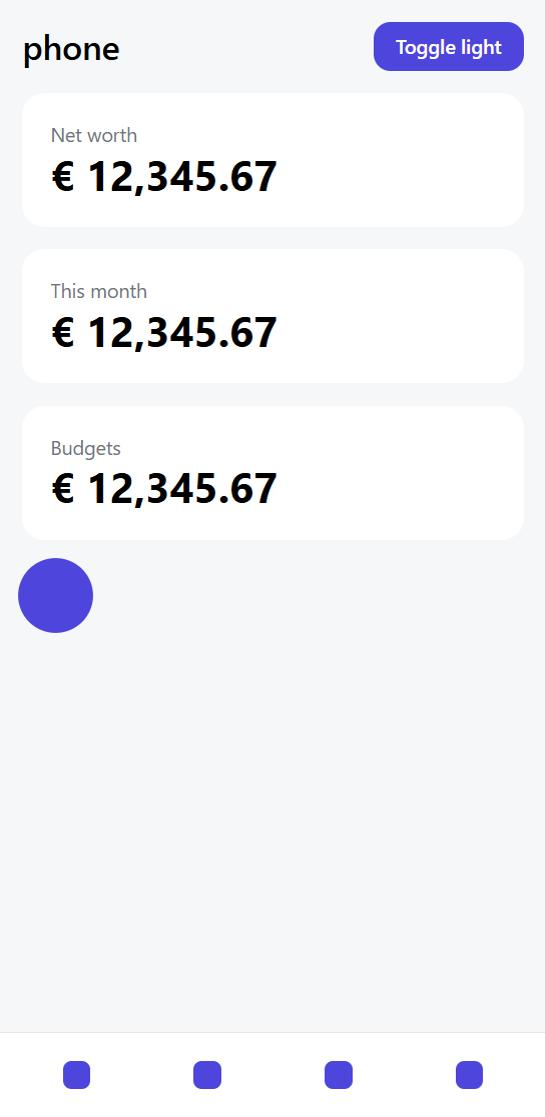
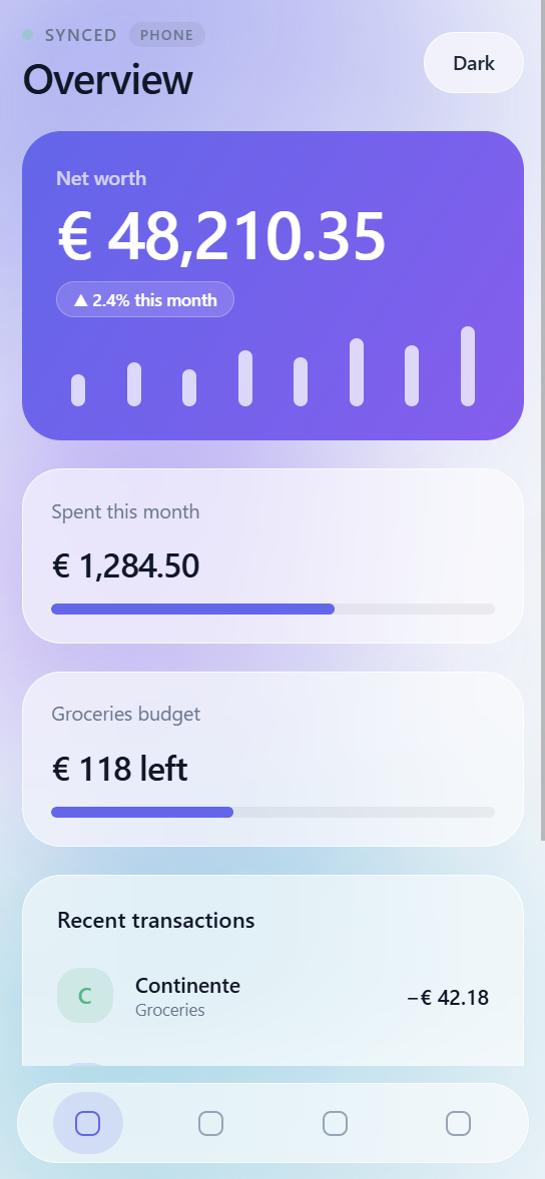
docs(adr): restyle ADR 0004 spike with glass UI and restrained gradients

diff --git a/docs/adr/0004-styling.md b/docs/adr/0004-styling.md
@@ -9,10 +9,15 @@ One design language on Android and web, with a real desktop layout on web (§9.2
 animation and web hover/focus.
 
 ## Spike (what was and was not measured)
-Prototype (throwaway, removed from the repo afterwards): one screen with nav (bottom tabs → rail → labelled sidebar),
-three stat cards (row on desktop), a staggered spring entrance and an infinite pulse, a dark-mode toggle, and hover/focus
-styles. Stack: `nativewind` 4.2.7 + `tailwindcss` 3.4.19 + `react-native-css-interop` 0.2.7, `react-native-reanimated` 4.7.1 +
-`react-native-worklets` 0.13.0, on Expo SDK 58 / expo-router, Chromium 152 (Claude browser pane, Windows).
+Prototype (throwaway, removed from the repo afterwards), restyled once after owner feedback ("more modern, cleaner, gradients and
+glassmorphism, not overused"): a dashboard screen with a floating glass nav (bottom bar → rail → labelled sidebar), a hero
+net-worth card, two stat cards with progress bars, a transactions list, a dark-mode toggle, and hover/focus styles.
+Design rules used: **glass** (translucent fill + 1 px border + backdrop blur) for nav and cards; **gradient only in three places**
+(hero card, logo mark, soft background glows); flat accent colour everywhere else; tabular figures for amounts.
+**Reanimated** drives: staggered spring entrance, animated progress and sparkline bars, press-scale on buttons, slow drift of the
+background glows, and the sync-dot pulse. Stack: `nativewind` 4.2.7 + `tailwindcss` 3.4.19 + `react-native-css-interop` 0.2.7,
+`react-native-reanimated` 4.7.1 + `react-native-worklets` 0.13.0, `expo-linear-gradient` 58.0.3 (Expo-bundled), on Expo SDK 58 /
+expo-router, Chromium 152 (Claude browser pane, Windows).
 
 **Not verified: Android.** No emulator was available, so Android rendering, animation smoothness and dark mode on device are
 untested. That part of the issue's acceptance criteria remains open.
@@ -21,16 +26,21 @@ untested. That part of the issue's acceptance criteria remains open.
 |---|---|
 | Responsive classes switch at 640 / 1024 px | **Yes, exactly.** 639 px → bottom tabs; 640 → rail (64 px); 1023 → rail; 1024 → sidebar (224 px) and 3-column cards |
 | Dark mode toggle | **Works** (`dark` class on `<html>`; all surfaces and text switch) |
-| Reanimated animation | **Works:** staggered spring entrance and looping pulse; pulse advanced on every sampled frame (34 distinct transforms in 61 frames; pane unfocused, so frame rate is throttled and not a true FPS) |
+| Reanimated animation | **Works:** entrance, progress/bar springs, press-scale, background drift, pulse. Visually smooth; no reliable FPS number because the pane is unfocused (frame rate throttled) |
 | Hover / focus on web | **Works:** `hover:` tint on nav rows, `focus:` tint plus browser focus ring via Tab |
 | Moti | **Failed on web** (see findings) |
 
-Production web export impact: entry bundle +27 KB raw / **+7.5 KB gzip**; generated CSS 9.7 KB (2.4 KB gzip);
-the screen chunk including Reanimated/worklets is 716 KB raw / 141 KB gzip.
+Production web export impact: entry bundle +27 KB raw / **+7.5 KB gzip**; generated CSS 14 KB (3.3 KB gzip);
+the screen chunk including Reanimated/worklets/linear-gradient is 726 KB raw / 144 KB gzip.
 
 Screenshots (web, phone 390 / tablet 768 / desktop 1280, light + dark): `assets/0004/`.
 
 ## Findings and caveats
+0. **Glass is a web-only effect for now.** `backdrop-filter` (NativeWind `backdrop-blur-*`, applied via the `web:` variant) gives real glass on web.
+   On Android the same classes are expected to fall back to translucent fills with a border (no blur; not verified on device). Real blur on Android needs `expo-blur`
+   (a native module, still experimental on Android); the background glows are also blurred with a CSS filter on web only (a soft
+   gradient on native). **Adding `expo-blur` is a decision for the owner** (plan rule: ask before native dependencies).
+   Glass looks best in dark mode; in light mode it is subtle by design.
 1. **Moti is not usable as-is on web.** It pulls in `framer-motion` 6.5.1 (old, 2022) and crashed Expo's Node static
    renderer (`Cannot destructure property '__extends' of 'tslib.default'`). I replaced it with Reanimated directly
    (`entering={FadeInDown…}`, `useSharedValue` / `withRepeat`), which worked. Its types also did not match Reanimated 4 transitions.
@@ -63,6 +73,7 @@ _Pending owner decision._
 
 ## Consequences (if recommendation accepted)
 - P2.1 sets up NativeWind (Babel, Metro, Tailwind preset with design tokens, `darkMode: "class"`, owned scheme store) in `apps/app`/`packages/ui`.
-- Adds `nativewind`, `tailwindcss`, `react-native-css-interop`, `react-native-reanimated`, `react-native-worklets` to `apps/app`.
+- Adds `nativewind`, `tailwindcss`, `react-native-css-interop`, `react-native-reanimated`, `react-native-worklets`, `expo-linear-gradient` to `apps/app`.
+- Glass on Android (`expo-blur`) is a separate owner decision; until then native gets translucent fills without blur.
 - Biome config disables `noUnknownAtRules` for CSS.
 - Plan §2.1's "Moti" is dropped; animations use Reanimated.
